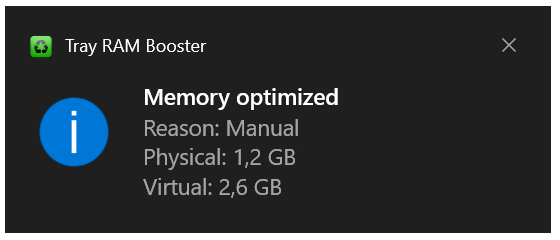
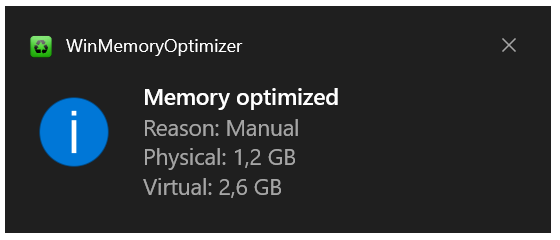
project renamed to winMemoryOptimizer

Changed region(s): [[0.1214, 0.1458, 0.4554, 0.2333]]

diff --git a/winMemoryOptimizer/Engine/Settings.cs b/winMemoryOptimizer/Engine/Settings.cs
@@ -5,12 +5,13 @@ using System.Linq;
 using Microsoft.Win32;
 using sergiye.Common;
 
-namespace TrayRAMBooster {
+namespace winMemoryOptimizer {
 
   internal static class Settings {
 
     static class RegistryKey {
-      public const string Settings = @"SOFTWARE\sergiye\TrayRAMBooster";
+      public const string Settings = @"SOFTWARE\sergiye\winMemoryOptimizer";
+      public const string OldSettings = @"SOFTWARE\sergiye\TrayRAMBooster";
       public const string ProcessExclusionList = Settings + @"\ProcessExclusionList";
     }
 
@@ -58,19 +59,8 @@ namespace TrayRAMBooster {
           }
         }
 
-        using (var key = Registry.CurrentUser.OpenSubKey(RegistryKey.Settings)) {
-          if (key == null) return;
-          autoOptimizationInterval = key.Get(RegistryName.AutoOptimizationInterval, autoOptimizationInterval);
-          autoOptimizationMemoryUsage = key.Get(RegistryName.AutoOptimizationMemoryUsage, autoOptimizationMemoryUsage);
-          updateIntervalSeconds = key.Get(RegistryName.UpdateIntervalSeconds, updateIntervalSeconds);
-          showOptimizationNotifications = key.Get(RegistryName.ShowOptimizationNotifications, showOptimizationNotifications);
-          showVirtualMemory = key.Get(RegistryName.ShowVirtualMemory, showVirtualMemory);
-          autoUpdateApp = key.Get(RegistryName.AutoUpdateApp, autoUpdateApp);
-          trayIconValueColor = key.Get(RegistryName.TrayIconValueColor, trayIconValueColor);
-          memoryAreas = key.GetEnum(RegistryName.MemoryAreas, memoryAreas);
-          runOnPriority = key.GetEnum(RegistryName.RunOnPriority, runOnPriority);
-          trayIconMode = key.GetEnum(RegistryName.TrayIcon, trayIconMode);
-          doubleClickAction = key.GetEnum(RegistryName.DoubleClickAction, doubleClickAction);
+        if (!ReadSettings(RegistryKey.Settings)) {
+          ReadSettings(RegistryKey.OldSettings);
         }
       }
       catch (Exception e) {
@@ -81,6 +71,24 @@ namespace TrayRAMBooster {
       }
     }
 
+    private static bool ReadSettings(string settingsPath) {
+      using (var key = Registry.CurrentUser.OpenSubKey(settingsPath)) {
+        if (key == null) return false;
+        autoOptimizationInterval = key.Get(RegistryName.AutoOptimizationInterval, autoOptimizationInterval);
+        autoOptimizationMemoryUsage = key.Get(RegistryName.AutoOptimizationMemoryUsage, autoOptimizationMemoryUsage);
+        updateIntervalSeconds = key.Get(RegistryName.UpdateIntervalSeconds, updateIntervalSeconds);
+        showOptimizationNotifications = key.Get(RegistryName.ShowOptimizationNotifications, showOptimizationNotifications);
+        showVirtualMemory = key.Get(RegistryName.ShowVirtualMemory, showVirtualMemory);
+        autoUpdateApp = key.Get(RegistryName.AutoUpdateApp, autoUpdateApp);
+        trayIconValueColor = key.Get(RegistryName.TrayIconValueColor, trayIconValueColor);
+        memoryAreas = key.GetEnum(RegistryName.MemoryAreas, memoryAreas);
+        runOnPriority = key.GetEnum(RegistryName.RunOnPriority, runOnPriority);
+        trayIconMode = key.GetEnum(RegistryName.TrayIcon, trayIconMode);
+        doubleClickAction = key.GetEnum(RegistryName.DoubleClickAction, doubleClickAction);
+        return true;
+      }
+    }
+    
     public static int AutoOptimizationInterval {
       get => autoOptimizationInterval;
       set {
@@ -184,7 +192,8 @@ namespace TrayRAMBooster {
 
     public static void Save() {
       try {
-        Registry.CurrentUser.DeleteSubKey(RegistryKey.ProcessExclusionList, false);
+        Registry.CurrentUser.DeleteSubKey(RegistryKey.OldSettings, false);
+        Registry.CurrentUser.DeleteSubKey(RegistryKey.Settings, false);
 
         if (ProcessExclusionList.Any()) {
           using (var key = Registry.CurrentUser.CreateSubKey(RegistryKey.ProcessExclusionList)) {

diff --git a/winMemoryOptimizer/TrayApplicationContext.cs b/winMemoryOptimizer/TrayApplicationContext.cs
@@ -8,7 +8,7 @@ using System.Threading.Tasks;
 using System.Windows.Forms;
 using sergiye.Common;
 
-namespace TrayRAMBooster {
+namespace winMemoryOptimizer {
   
   internal class TrayApplicationContext : ApplicationContext {
 
@@ -72,8 +72,8 @@ namespace TrayRAMBooster {
               Process.Start(new ProcessStartInfo("resmon.exe") { UseShellExecute = true });
             }
             else {
-              WinApiHelper.ShowWindowAsync(process.MainWindowHandle, WinApiConstants.SW_RESTORE);
-              WinApiHelper.ShowWindowAsync(process.MainWindowHandle, WinApiConstants.SW_SHOWNORMAL);
+              WinApiHelper.ShowWindowAsync(process.MainWindowHandle, WinApiHelper.SW_RESTORE);
+              WinApiHelper.ShowWindowAsync(process.MainWindowHandle, WinApiHelper.SW_SHOWNORMAL);
               WinApiHelper.SetForegroundWindow(process.MainWindowHandle);
             }
             break;

diff --git a/winMemoryOptimizer/Properties/AssemblyInfo.cs b/winMemoryOptimizer/Properties/AssemblyInfo.cs
@@ -1,11 +1,11 @@
 using System.Reflection;
 using System.Runtime.InteropServices;
 
-[assembly: AssemblyTitle("Tray RAM Booster")]
-[assembly: AssemblyDescription("Tray RAM Booster mini tool for windows")]
+[assembly: AssemblyTitle("WinMemoryOptimizer")]
+[assembly: AssemblyDescription("Windows Memory Optimizer mini tool for windows")]
 [assembly: AssemblyConfiguration("")]
 [assembly: AssemblyCompany("SergiyE")]
-[assembly: AssemblyProduct("TrayRAMBooster")]
+[assembly: AssemblyProduct("winMemoryOptimizer")]
 [assembly: AssemblyCopyright("Copyright © 2025. Sergiy Egoshin. All rights reserved.")]
 [assembly: AssemblyTrademark("")]
 [assembly: AssemblyCulture("")]
@@ -14,4 +14,4 @@ using System.Runtime.InteropServices;
 
 [assembly: Guid("E2873512-EC83-4D38-A4A9-F51F7A5A8391")]
 
-[assembly: AssemblyVersion("2.1.*")]
+[assembly: AssemblyVersion("2.2.*")]

diff --git a/winMemoryOptimizer/Engine/WindowsStructs.cs b/winMemoryOptimizer/Engine/WindowsStructs.cs
@@ -1,7 +1,7 @@
 using System;
 using System.Runtime.InteropServices;
 
-namespace TrayRAMBooster {
+namespace winMemoryOptimizer {
 
   internal static class WindowsStructs {
     [StructLayout(LayoutKind.Sequential, Pack = 1)]

diff --git a/winMemoryOptimizer/Engine/ComputerService.cs b/winMemoryOptimizer/Engine/ComputerService.cs
@@ -7,7 +7,7 @@ using System.Runtime.InteropServices;
 using System.Security.Principal;
 using System.Text;
 
-namespace TrayRAMBooster {
+namespace winMemoryOptimizer {
   
   internal class ComputerService {
 

diff --git a/winMemoryOptimizer/Engine/Logger.cs b/winMemoryOptimizer/Engine/Logger.cs
@@ -3,7 +3,7 @@ using System.Diagnostics;
 using System.Runtime.CompilerServices;
 using sergiye.Common;
 
-namespace TrayRAMBooster {
+namespace winMemoryOptimizer {
   
   internal static class Logger {
     

diff --git a/winMemoryOptimizer/Engine/NativeMethods.cs b/winMemoryOptimizer/Engine/NativeMethods.cs
@@ -1,7 +1,7 @@
 using System;
 using System.Runtime.InteropServices;
 
-namespace TrayRAMBooster {
+namespace winMemoryOptimizer {
   
   internal static class NativeMethods {
     

diff --git a/winMemoryOptimizer/Engine/ExtensionMethods.cs b/winMemoryOptimizer/Engine/ExtensionMethods.cs
@@ -2,7 +2,7 @@
 using System.Collections.Generic;
 using System.Linq;
 
-namespace TrayRAMBooster {
+namespace winMemoryOptimizer {
 
   internal static class ExtensionMethods {
 

diff --git a/winMemoryOptimizer/Program.cs b/winMemoryOptimizer/Program.cs
@@ -2,7 +2,7 @@
 using System.Windows.Forms;
 using sergiye.Common;
 
-namespace TrayRAMBooster {
+namespace winMemoryOptimizer {
   
   internal class Program {
     

diff --git a/winMemoryOptimizer/Engine/Enums.cs b/winMemoryOptimizer/Engine/Enums.cs
@@ -1,6 +1,6 @@
 using System;
 
-namespace TrayRAMBooster {
+namespace winMemoryOptimizer {
 
   internal static class Enums {
     

diff --git a/winMemoryOptimizer/Engine/Constants.cs b/winMemoryOptimizer/Engine/Constants.cs
@@ -1,4 +1,4 @@
-namespace TrayRAMBooster {
+namespace winMemoryOptimizer {
   
   internal static class Constants {
     

diff --git a/winMemoryOptimizer/Engine/Log.cs b/winMemoryOptimizer/Engine/Log.cs
@@ -1,6 +1,6 @@
 using System;
 
-namespace TrayRAMBooster {
+namespace winMemoryOptimizer {
 
   internal class Log {
 
